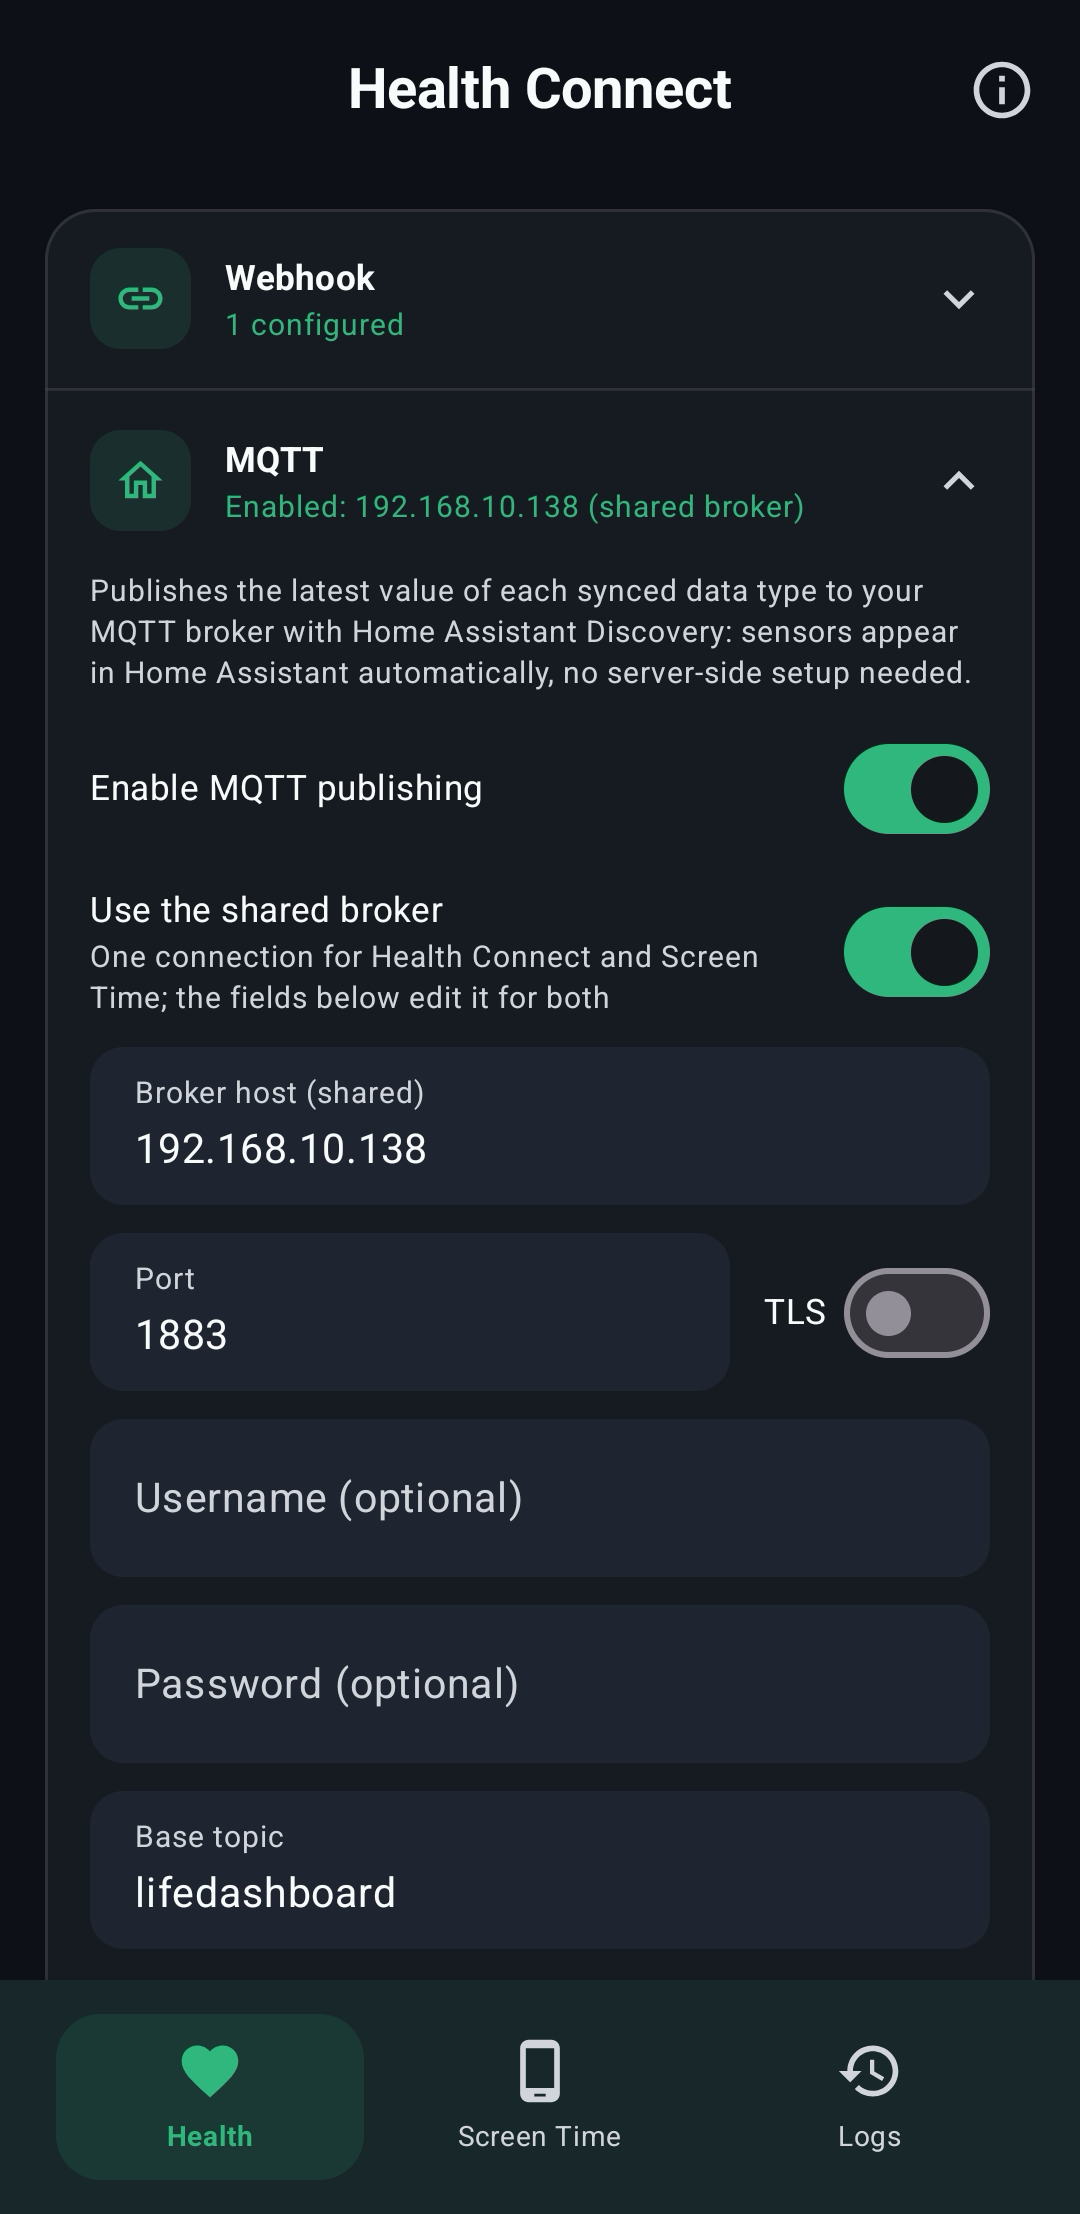
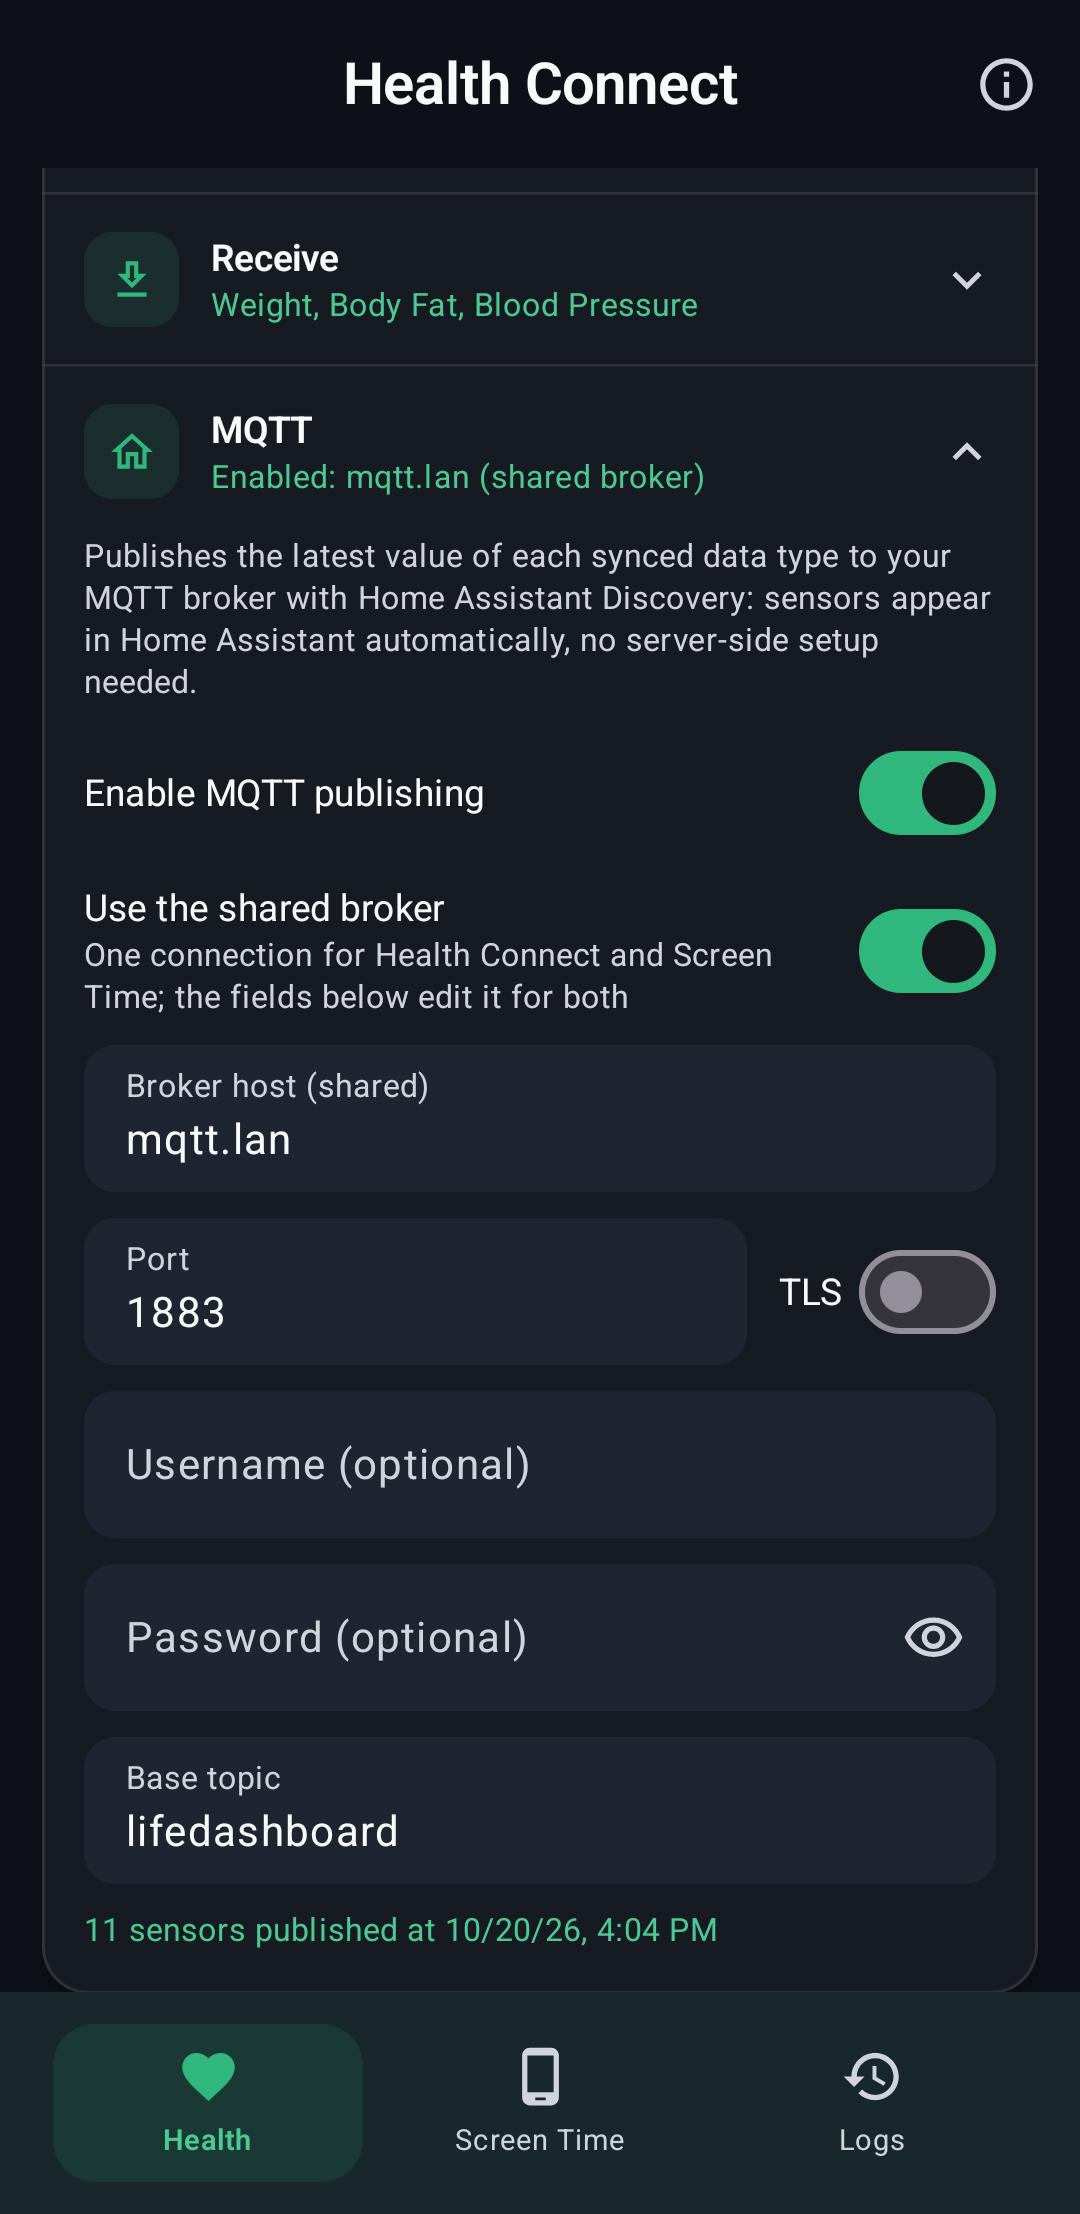
docs: The README screenshots show a lived-in year, HTTPS only, and the same 33 data types on every screen (P2-24)
The app captures in docs/screenshots/ are retaken on the store emulator with the same
generated year as the Play screenshots, so the steps and screen time sparklines show a
real week instead of two flat days. Both webhooks are HTTPS, so Advanced reads "HTTPS
only" instead of "Plain HTTP allowed", and the Health tab, the schedule and Data
Resolution all show 33 of 33 types selected with 4 bucketed. The README rows are
rendered again from them and the alt text says what is shown.

diff --git a/docs/features.md b/docs/features.md
@@ -109,7 +109,7 @@ There are two ways into Home Assistant. Use one, not both: with both you get two
 
 **MQTT with Home Assistant Discovery** suits a setup that already has a broker and only needs current values. Point the app at the broker, and sensors for 24 of the 33 types, plus screen time, appear under one device without any configuration in Home Assistant.
 
-<img src="screenshots/mqtt.png" alt="The MQTT section in the app: broker host, port, optional credentials and a shared base topic" width="300" align="right">
+<img src="screenshots/mqtt.png" alt="The MQTT section in the app: the shared broker mqtt.lan on port 1883, optional credentials, the base topic and the last publish of 11 sensors" width="300" align="right">
 
 <img src="screenshots/home-assistant.png" alt="The device Home Assistant creates from the app's MQTT discovery messages, with its sensors" width="560">
 
@@ -171,7 +171,7 @@ A section can have several webhooks and MQTT at the same time. When a sync reach
 
 ## Scheduling
 
-<img src="screenshots/sync-schedule.png" alt="Sync Schedule set to fixed times: 09:00, 11:00 and 14:00, on Monday, Wednesday, Thursday, Saturday and Sunday" width="300" align="right">
+<img src="screenshots/sync-schedule.png" alt="Sync Schedule set to fixed times: 9:00 AM, 11:00 AM and 2:00 PM, on Monday, Wednesday, Thursday, Saturday and Sunday" width="300" align="right">
 
 Health Connect and Screen Time each have their own **Sync Schedule**, so screen time can sync every hour while health data syncs at 08:00 and 21:00.
 

diff --git a/README.md b/README.md
@@ -35,7 +35,7 @@
 <p align="center">
   <picture>
     <source media="(max-width: 600px)" srcset="docs/readme-screens-phone.png">
-    <img src="docs/readme-screens.png" alt="Four app screens: the Health Connect tab with 33 data types selected, the Screen Time tab with minutes per app, the sync schedule set to fixed times on chosen days, and per-type data resolution" width="900">
+    <img src="docs/readme-screens.png" alt="Four app screens: the Health Connect tab with all 33 data types selected and a week of steps, the Screen Time tab with a week of minutes per day and the top app, the sync schedule set to 9:00 AM, 11:00 AM and 2:00 PM on five days of the week, and data resolution with 4 of the 33 types bucketed" width="900">
   </picture>
 </p>
 
